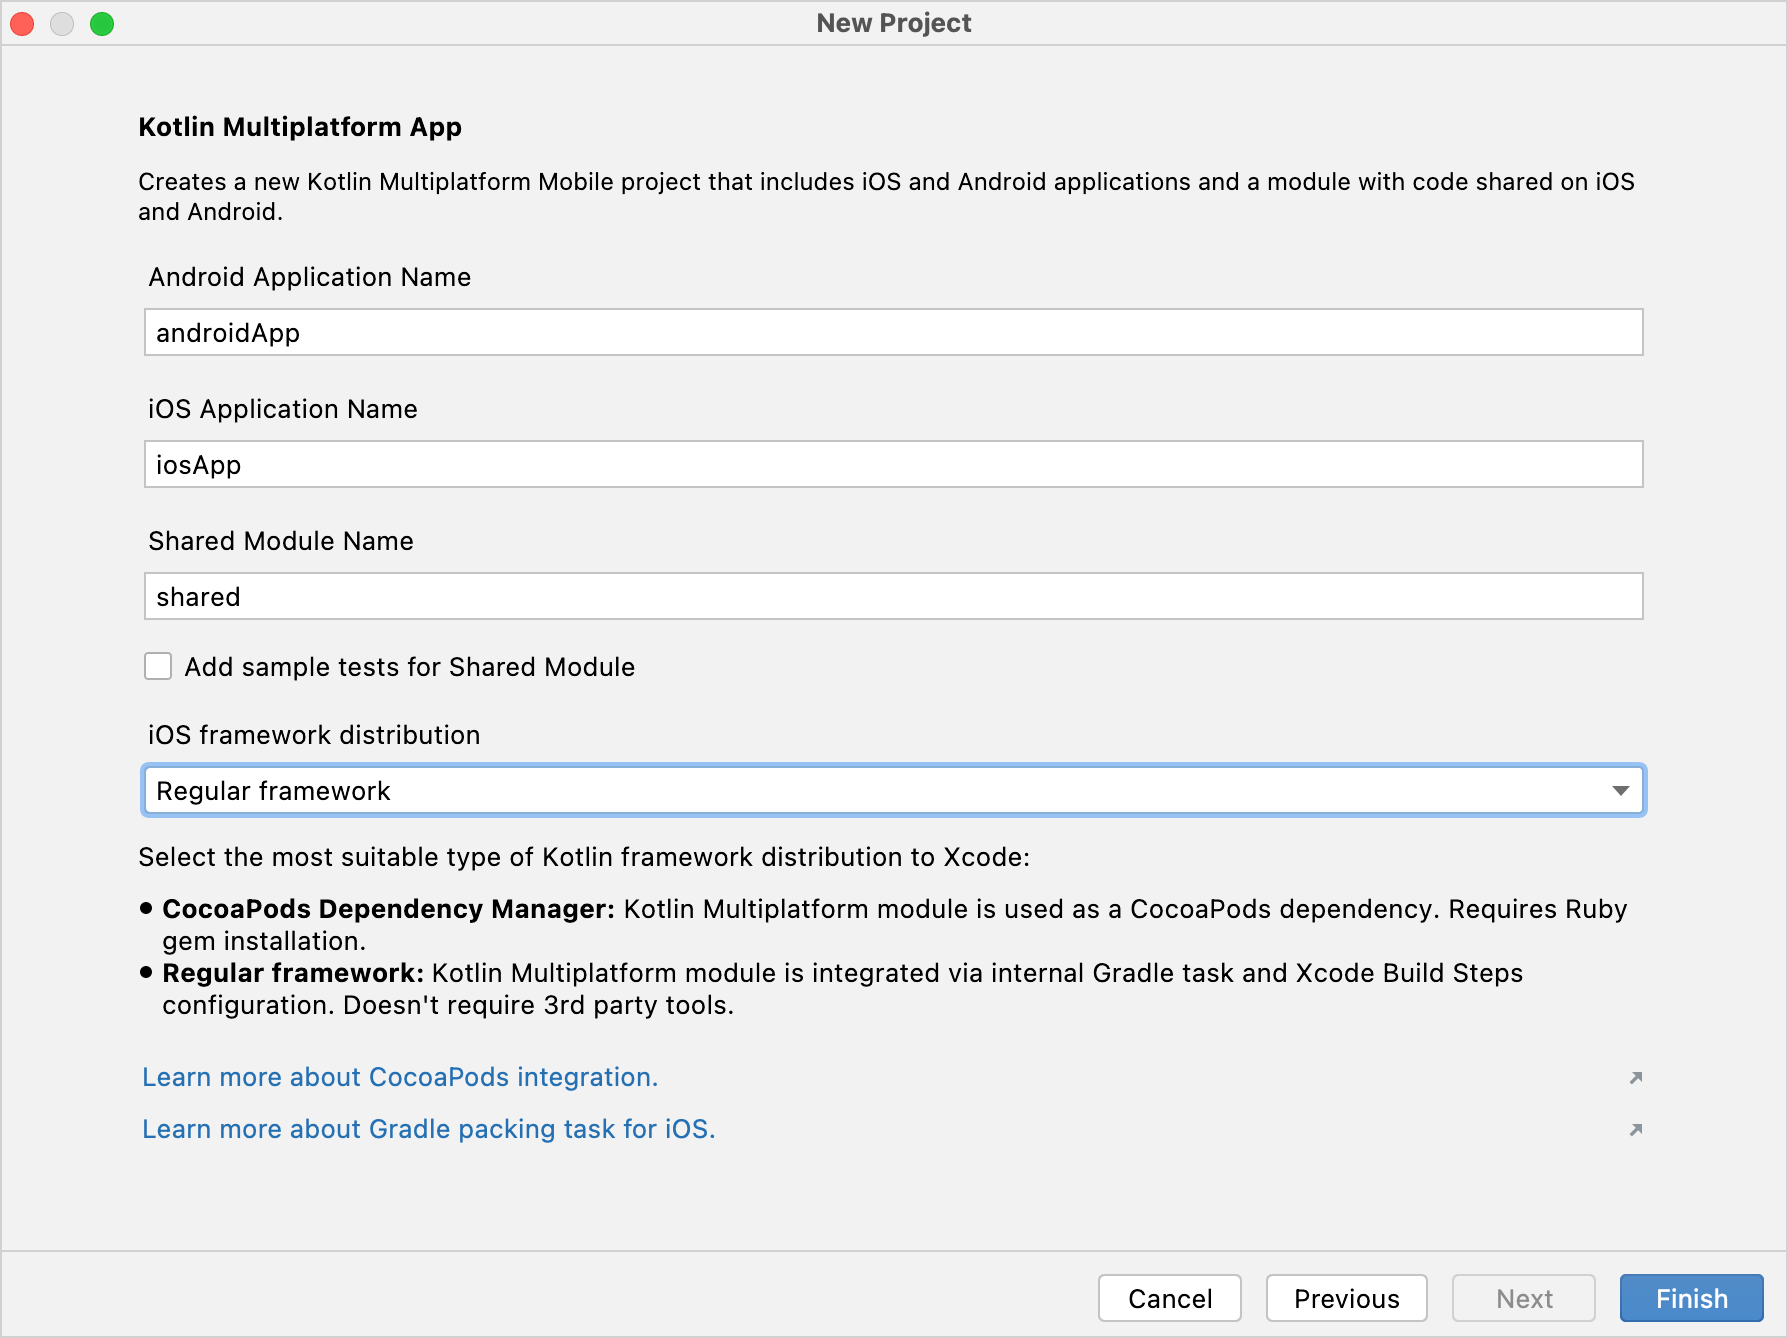
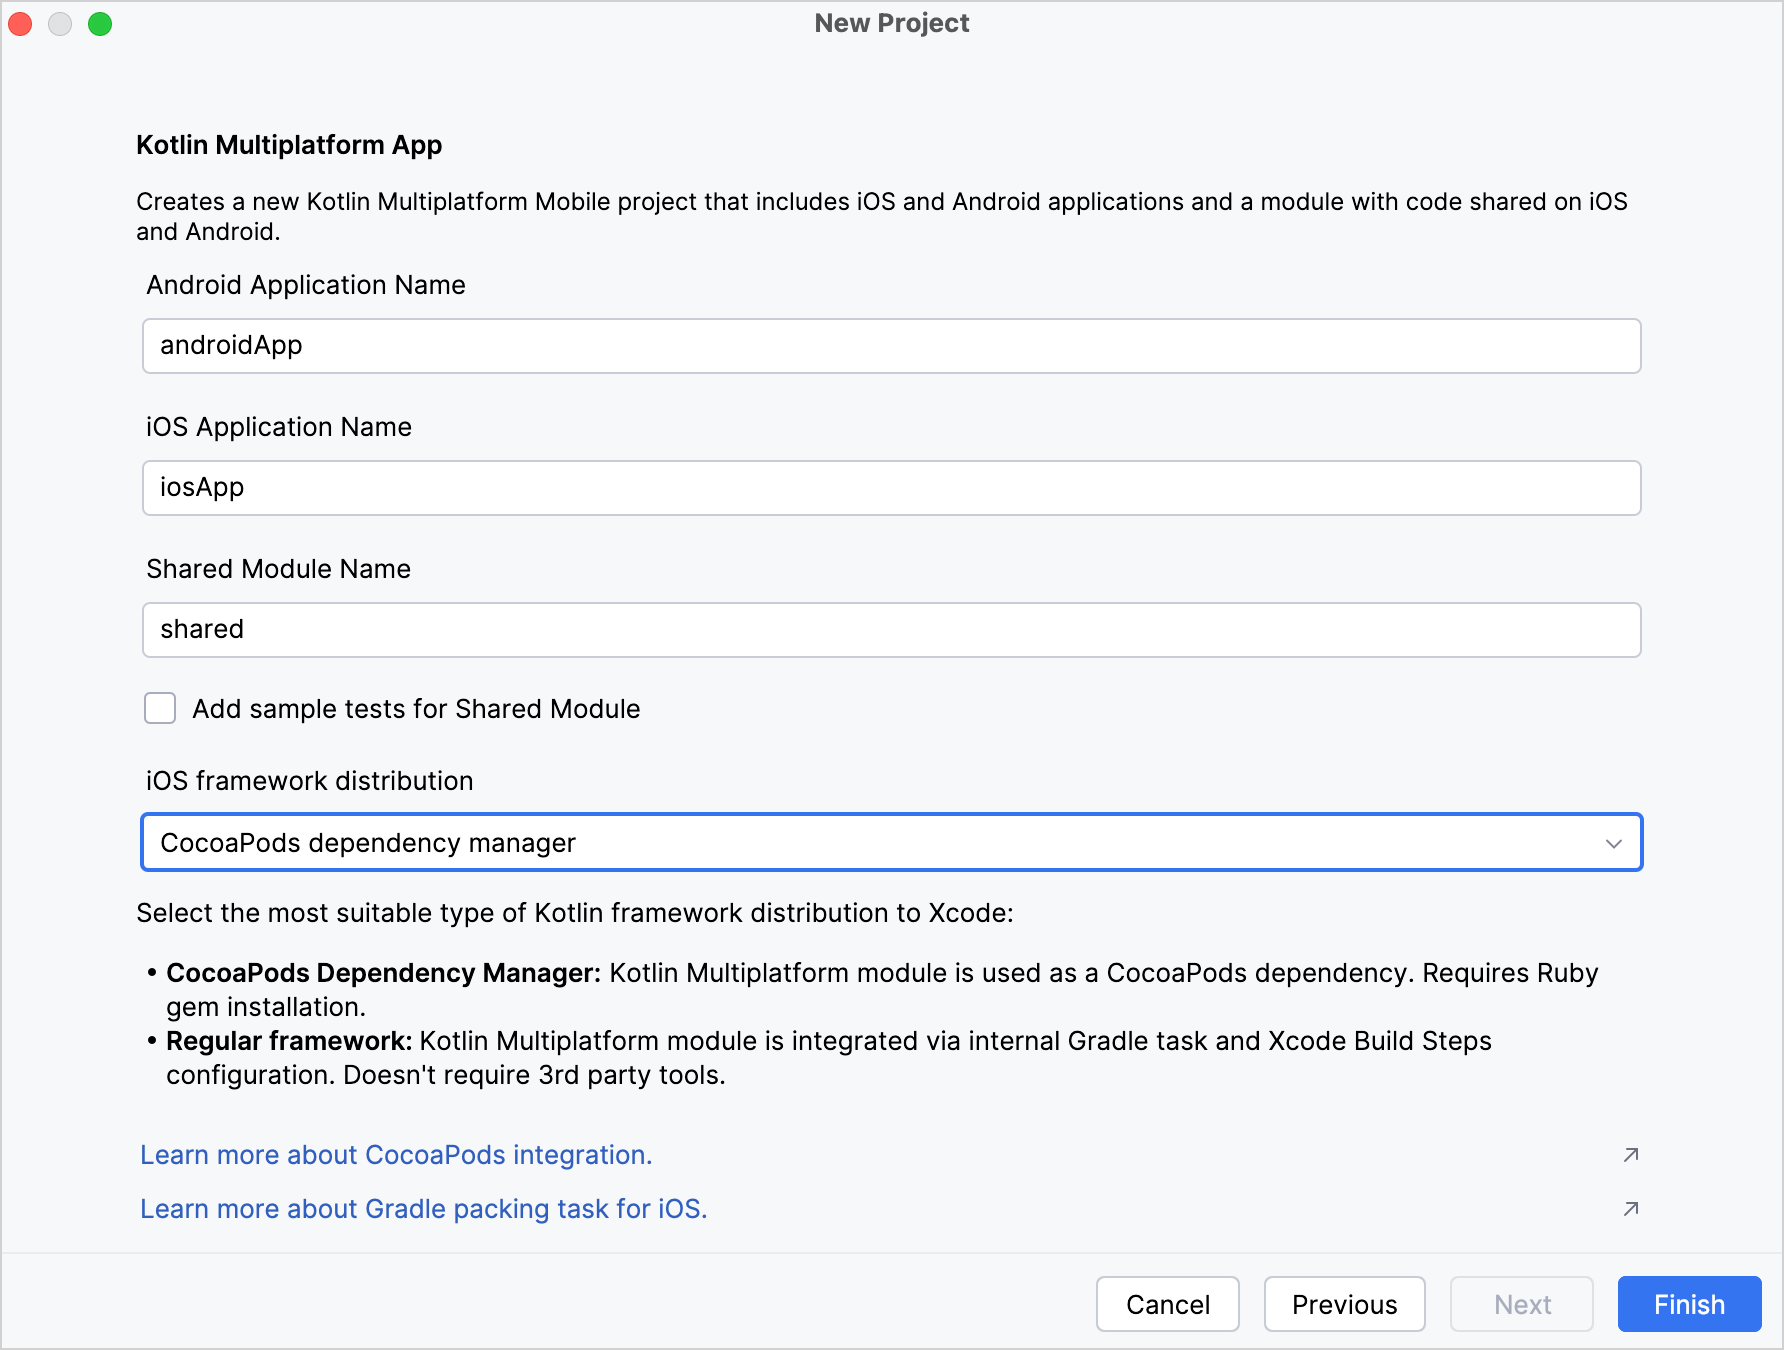
update: new screenshot

diff --git a/docs/topics/native/native-cocoapods.md b/docs/topics/native/native-cocoapods.md
@@ -81,7 +81,6 @@ sudo gem install cocoapods
 {type="warning"}
 
 1. Install [Homebrew](https://brew.sh/) in case you don't have it yet.
-
 2. Install CocoaPods:
 
     ```bash
@@ -102,9 +101,9 @@ Kotlin Multiplatform web wizard or the Kotlin Multiplatform plugin for Android S
 
 To create a project using the web wizard and configure the CocoaPods integration:
 
-1. Open the [Kotlin Multiplatform wizard](https://kmp.jetbrains.com) and select the necessary target platforms.
+1. Open the [Kotlin Multiplatform wizard](https://kmp.jetbrains.com) and select target platforms for your project.
 2. Click the **Download** button and unpack the downloaded archive.
-3. In Android Studio, click **Open** on the Welcome screen, or select **File | Open** in the editor.
+3. In Android Studio, click **Open** on the Welcome screen or select **File | Open** in the editor.
 4. Navigate to the unpacked project folder and then click **Open**.
 5. Add the Kotlin CocoaPods Gradle plugin to the version catalog. In the `gradle/libs.versions.toml` file,
    add the following declaration to the `[plugins]` block:
@@ -119,14 +118,14 @@ To create a project using the web wizard and configure the CocoaPods integration
    alias(libs.plugins.kotlinCocoapods) apply false
    ```
 
-7. Open the module where you want to integrate CocoaPods, for example the `shared` module, and add the following alias
+7. Open the module where you want to integrate CocoaPods, for example the `composeApp` module, and add the following alias
    to the `plugins {}` block:
 
    ```kotlin
    alias(libs.plugins.kotlinCocoapods)
    ```
 
-Now you are ready to use CocoaPods in your Kotlin Multiplatform project.
+Now, you are ready to use CocoaPods in your Kotlin Multiplatform project.
 
 ### In Android Studio
 
@@ -134,14 +133,16 @@ To create a project in Android Studio with the CocoaPods integration:
 
 1. In Android Studio, search for the [Kotlin Multiplatform plugin](https://plugins.jetbrains.com/plugin/14936-kotlin-multiplatform)
    in the Marketplace and install it.
-2. Select **File** | **New** | **New Project**. In the list of project templates, select **Kotlin
-   Multiplatform App** and then click **Next**.
-3. Name your application and click **Next**.
-4. Choose **CocoaPods Dependency Manager** as the iOS framework distribution option.
+2. In Android Studio, click **New Project** on the Welcome screen or select  **File** | **New** | **New Project** in the editor.
+3. In the list of project templates, select **Kotlin Multiplatform App** and then click **Next**.
+4. Name your application and click **Next**.
+5. Choose **CocoaPods Dependency Manager** as the iOS framework distribution option.
 
-   ![Kotlin Multiplatform plugin wizard](as-project-wizard.png){width=700}
+   ![AS wizard with the Kotlin Multiplatform plugin](as-project-wizard.png){width=700}
 
-5. Keep all other options default. Click **Finish**. The plugin will automatically generate the project with CocoaPods generation.
+6. Keep all other options default. Click **Finish**.
+
+   The plugin will automatically generate the project with CocoaPods integration setup.
 
 ## Configure existing project
 
